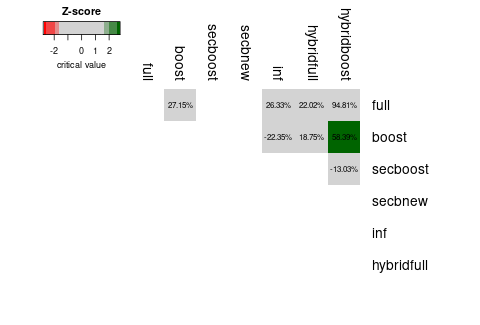
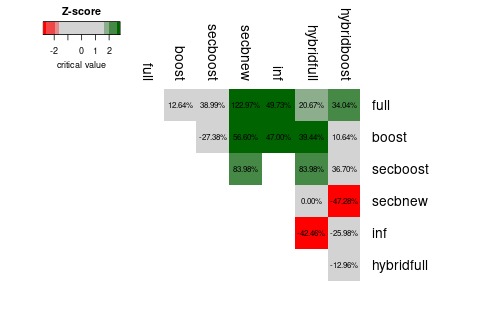
temp

Changed region(s): [[0.3438, 0.2769, 0.75, 0.8615]]

diff --git a/convertool/main.cpp b/convertool/main.cpp
@@ -222,7 +222,7 @@ struct preprocessparams
 
     /// lenght of the window after infection within which hospitalization is examined
     /// (after this limit, the subject is censored in h analysis TBD CHECK THIS!!)
-    int outcomelimit = 15;
+//    int outcomelimit = 15;
 
     int safetydate = date2int("2023-03-01");
 
@@ -260,6 +260,7 @@ struct preprocessparams
     ///
     int hosplimit = 30;
 
+    int lclimit = 183;
 
     /// if true, then only four age categories are used instead of the finer division
     bool fourages = false;
@@ -959,8 +960,8 @@ if(id==407)
             {
                 if(infections[j].t <= longcoviddate)
                 {
-                    infections[j].longcovid = true;
-//                    lcassigned = true;
+                    infections[j].longcovid = longcoviddate - infections[j].t < ppp.lclimit;
+
                     break;
                 }
             }
